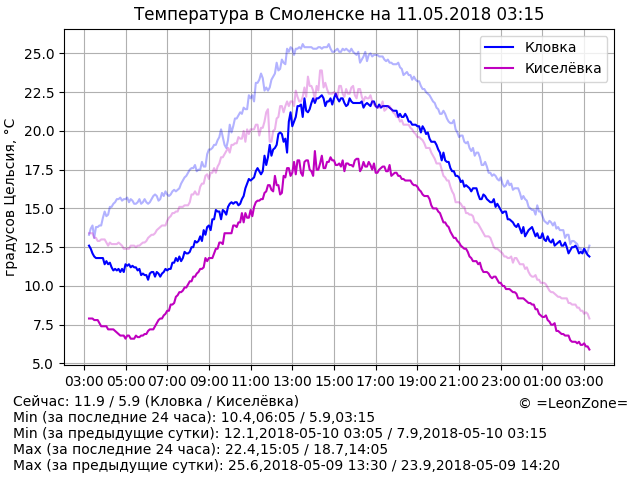
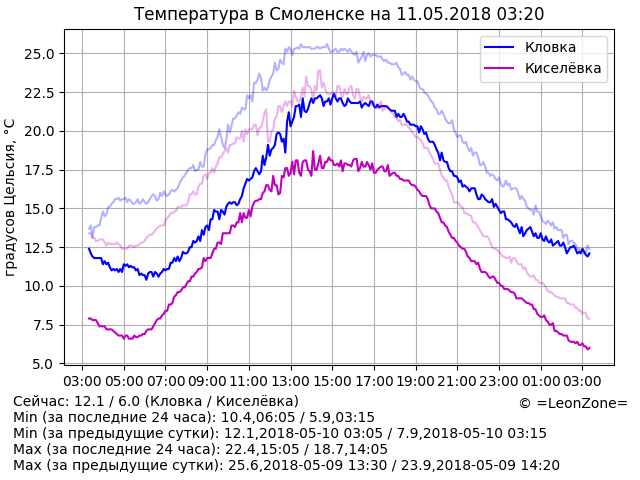
Update data

diff --git a/index.html b/index.html
@@ -14,7 +14,7 @@
 	<p align="center"><script>document.write("<img src=\"graph.png?rnd="+Math.random()+"\" alt=\"Температура в Смоленске\" align=\"middle\" width=\"640\" height=\"480\" />")</script>
 	<p hidden="true">
 <!-- textinfo -->
-Сейчас: 11.9 / 5.9 (Кловка / Киселёвка)
+Сейчас: 12.1 / 6.0 (Кловка / Киселёвка)
 Min (за последние 24 часа): 10.4,06:05 / 5.9,03:15
 Min (за предыдущие сутки): 12.1,2018-05-10 03:05 / 7.9,2018-05-10 03:15
 Max (за последние 24 часа): 22.4,15:05 / 18.7,14:05
